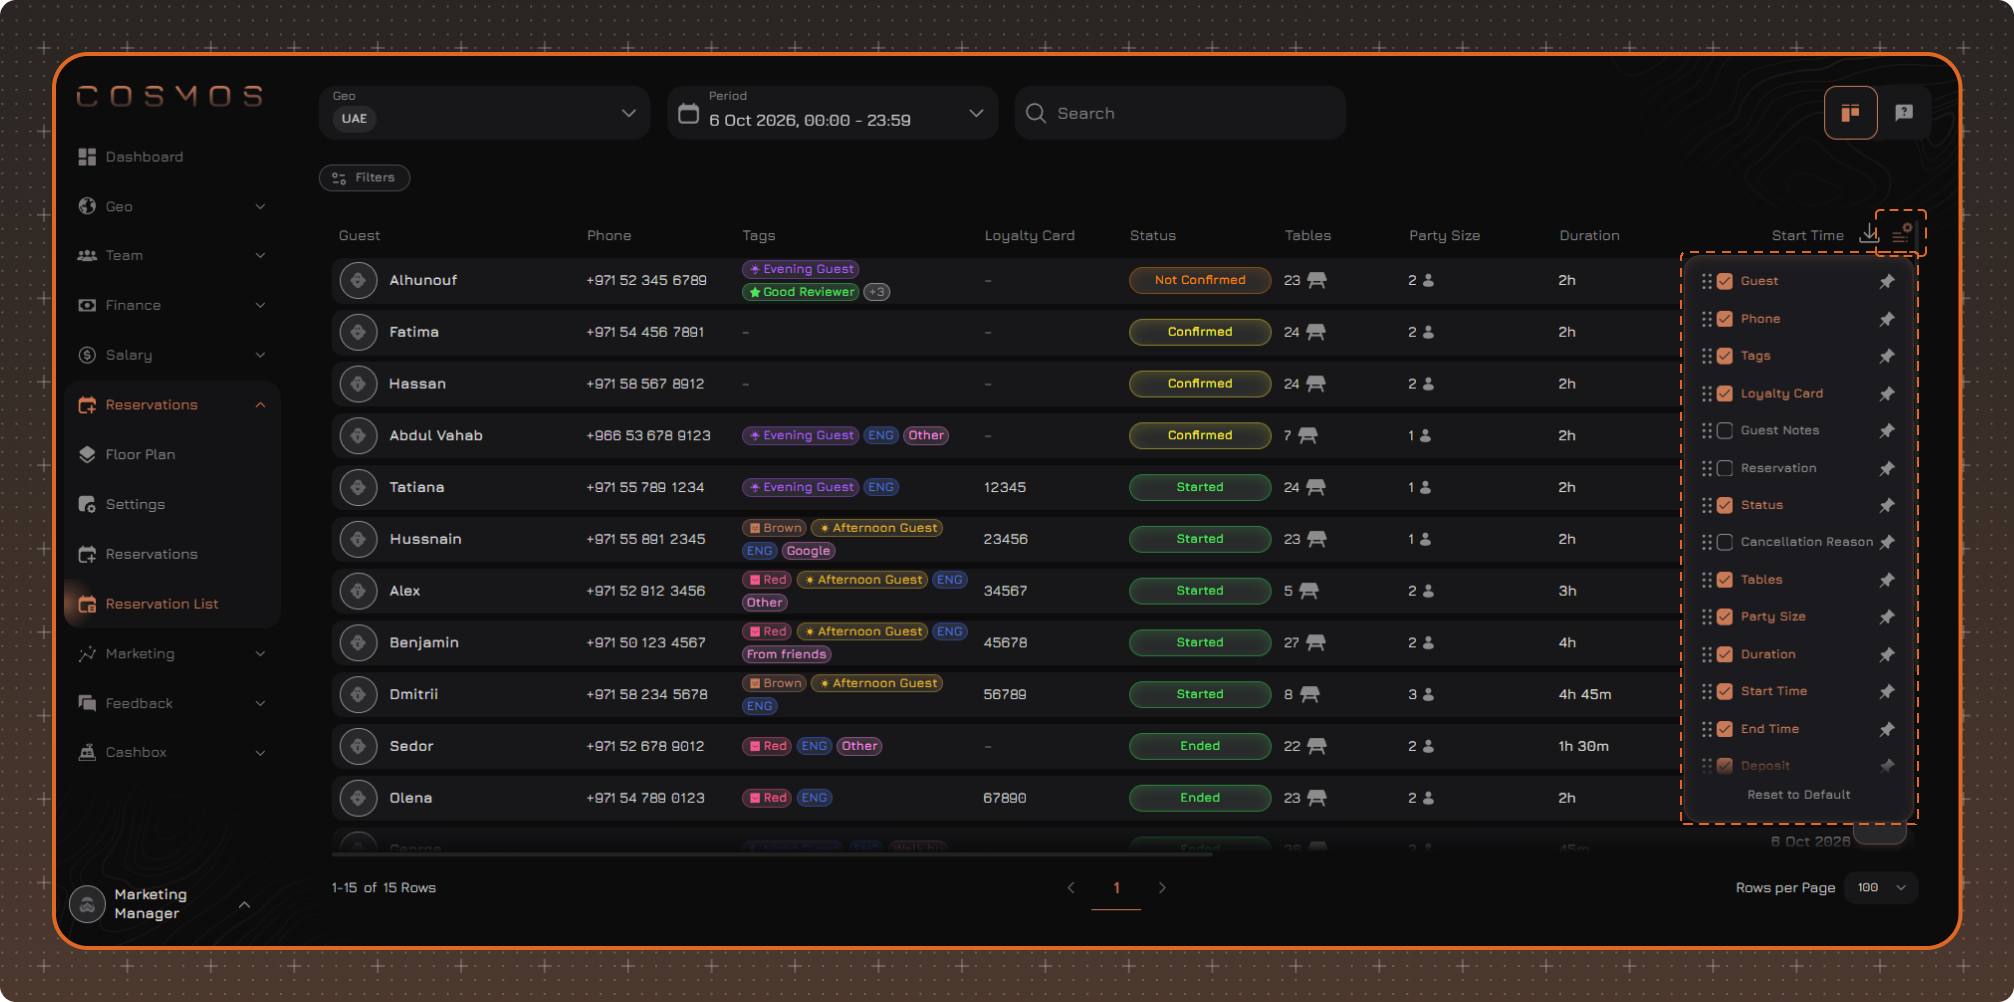
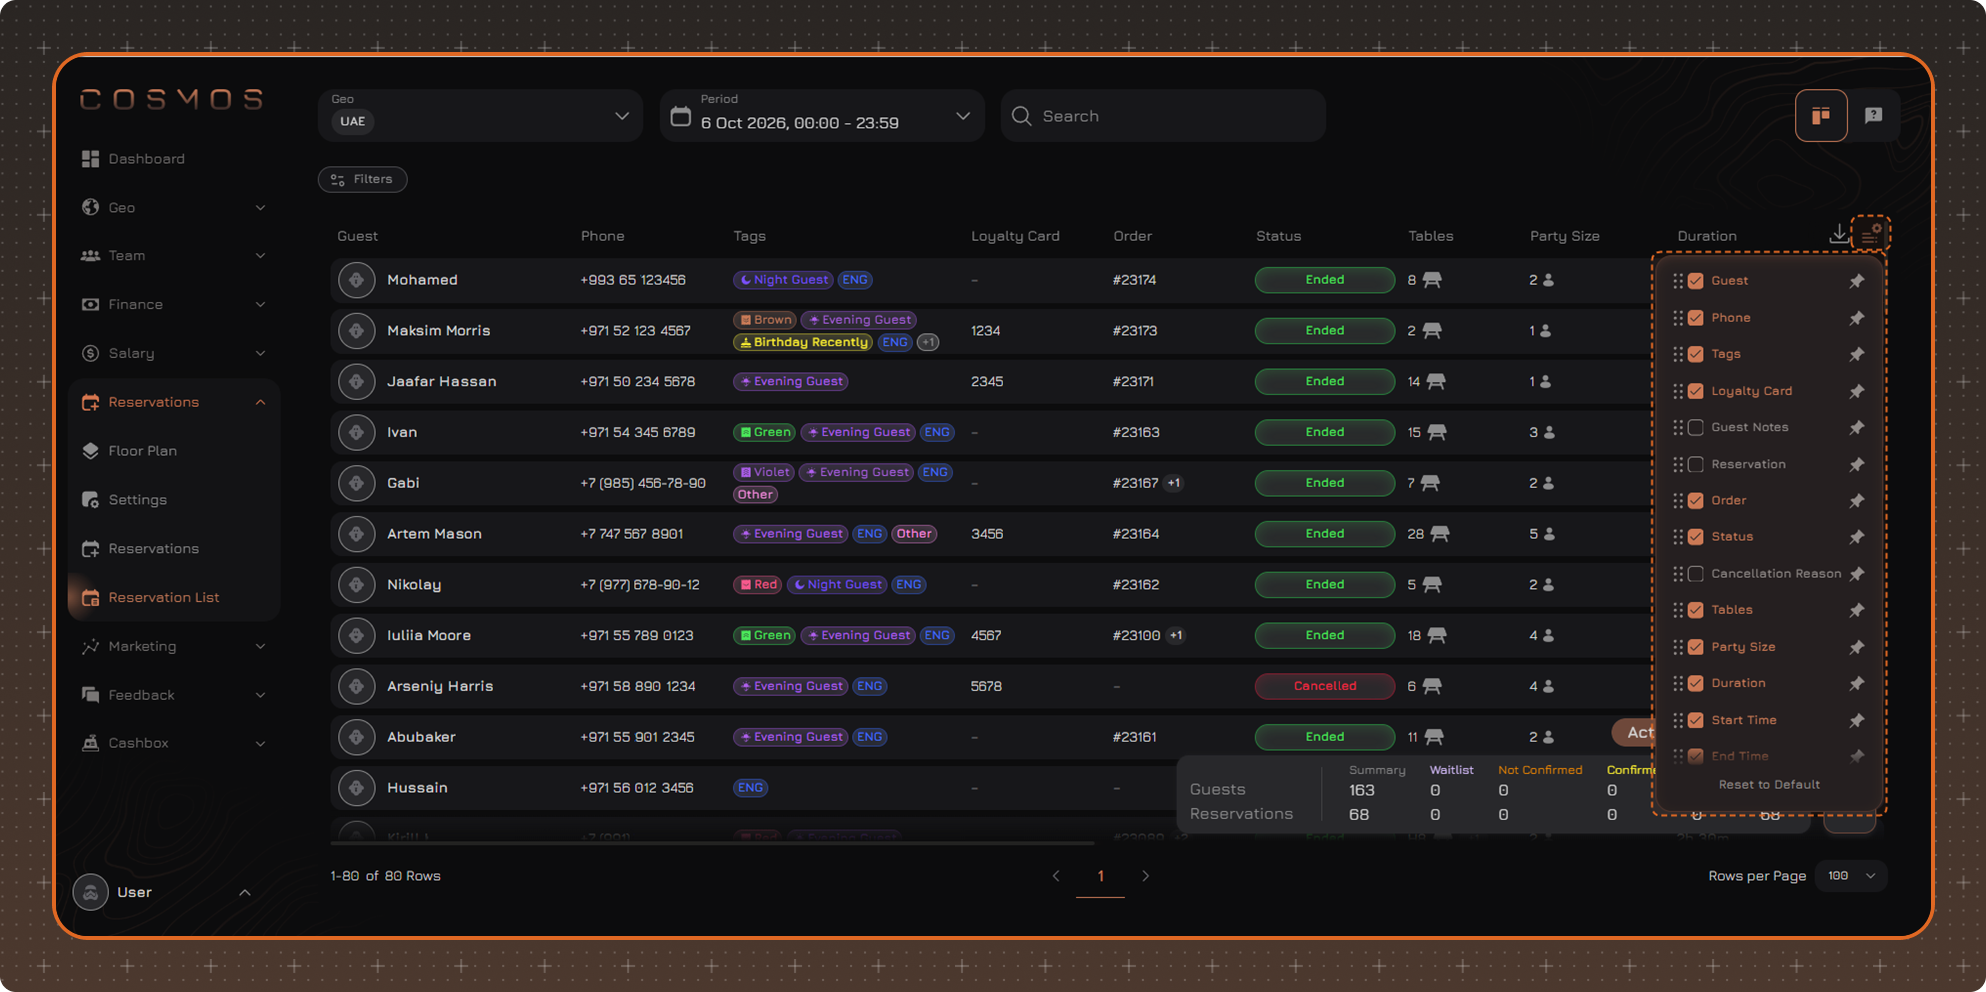
Reservation location (#106)
* Reservations: колонка «Локация бронирования» в списке бронирований RU и EN (CIMP-315)

* Reservations: колонка «Заказ», ссылка на заявки, новые скрины списка бронирований RU и EN (CIMP-315)

---------

diff --git a/content/ru/reservations/reservation-list.md b/content/ru/reservations/reservation-list.md
@@ -24,8 +24,7 @@ order: 3
 
 1. **Гео** — выбор локаций, бронирования которых отображаются в таблице.
 2. **Период** — диапазон дат и времени, за который отображаются бронирования.
-3. **Поиск**
-4. **Переключатель** — левая кнопка открывает список бронирований, правая — список заявок.
+3. **Переключатель** — левая кнопка открывает список бронирований, правая — список заявок. Подробнее о заявках в статье **[Заявки на бронирование](https://wiki.cosmosresto.ru/ru/reservations/reservations/requests/)**.
 
 ## Статистика
 
@@ -65,6 +64,7 @@ order: 3
 - **Телефон**
 - **Теги** — теги гостя
 - **Карта лояльности**
+- **Заказ** — номер заказа, открытого на столе бронирования
 - **Статус**
 - **Столы**
 - **Количество гостей**
@@ -74,12 +74,13 @@ order: 3
 - **Депозит** — сумма депозита по бронированию
 - **Теги бронирования** — теги, присвоенные бронированию. Подробнее в статье **[Теги бронирований](https://wiki.cosmosresto.ru/ru/reservations/reservations-tags/)**
 - **Заметки бронирования**
+- **Локация бронирования** — локация, в которой создано бронирование
 - **Обслужил** — сотрудник, назначенный на бронирование
 
 Дополнительно можно включить следующие колонки. При включении они отображаются в таблице в соответствии с порядком колонок в настройках:
 
 - **Заметки гостя**
-- **Бронирование**
+- **Бронирование** — номер бронирования
 - **Причина отмены** — заполняется только для отмененных бронирований
 - **Итого** — общая сумма чеков, связанных с бронированием
 - **Источник бронирования**

diff --git a/content/en/reservations/reservation-list.md b/content/en/reservations/reservation-list.md
@@ -24,8 +24,7 @@ This is a section of the main Cosmos system. The table view inside the reservati
 
 1. **Geo** — selection of locations whose reservations are displayed in the table.
 2. **Period** — the date and time range for which reservations are displayed.
-3. **Search**
-4. **Switch** — the left button opens the reservation list, the right one opens the request list.
+3. **Switch** — the left button opens the reservation list, the right one opens the request list. For more information about requests, read the article **[Reservation Requests](https://wiki.cosmosresto.ru/en/reservations/reservations/requests/)**.
 
 ## Statistics
 
@@ -65,6 +64,7 @@ By default, the table displays the following columns:
 - **Phone**
 - **Tags** — guest tags
 - **Loyalty Card**
+- **Order** — the number of the order opened at the reservation table
 - **Status**
 - **Tables**
 - **Party Size**
@@ -74,12 +74,13 @@ By default, the table displays the following columns:
 - **Deposit** — the deposit amount for the reservation
 - **Reservation Tags** — tags assigned to the reservation. For more information, read the article **[Reservation Tags](https://wiki.cosmosresto.ru/en/reservations/reservations-tags/)**
 - **Reservation Notes**
+- **Reservation Location** — the location where the reservation was created
 - **Served By** — the employee assigned to the reservation
 
 The following columns can be enabled additionally. When enabled, they appear in the table according to the column order in the settings:
 
 - **Guest Notes**
-- **Reservation**
+- **Reservation** — the reservation number
 - **Cancellation Reason** — filled in only for cancelled reservations
 - **Total** — the total amount of the orders linked to the reservation
 - **Reservation Source**
